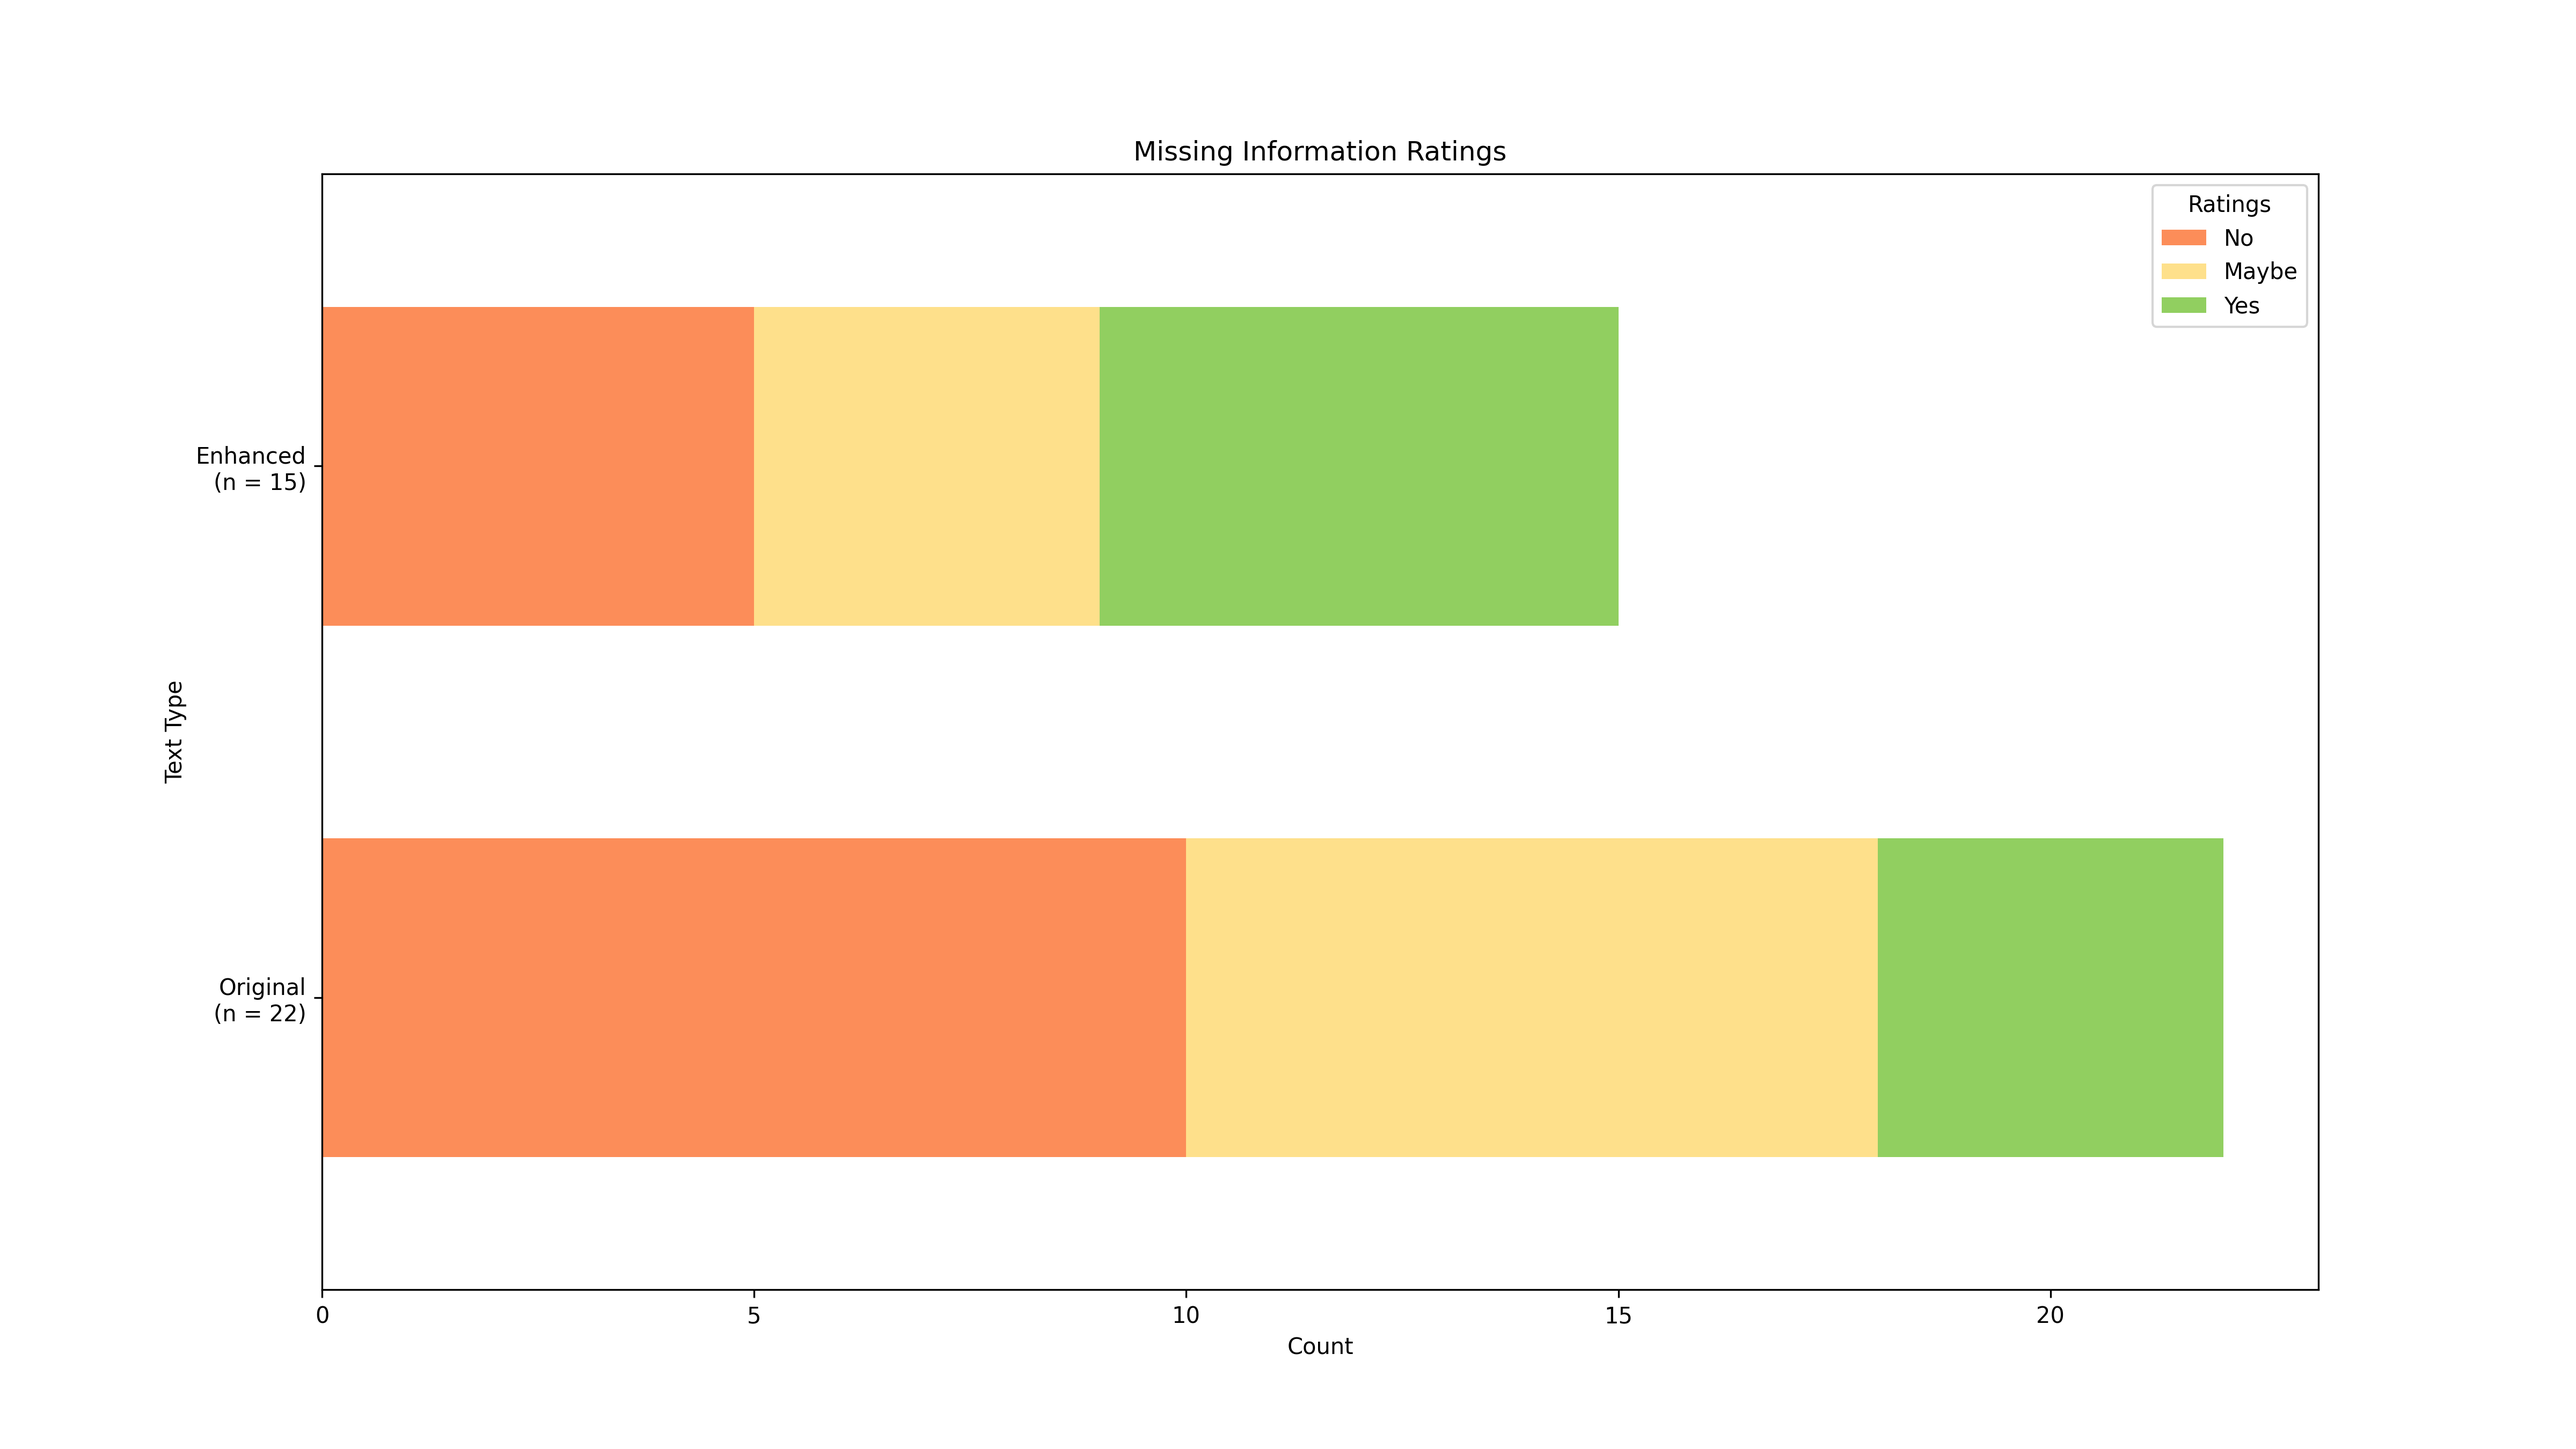
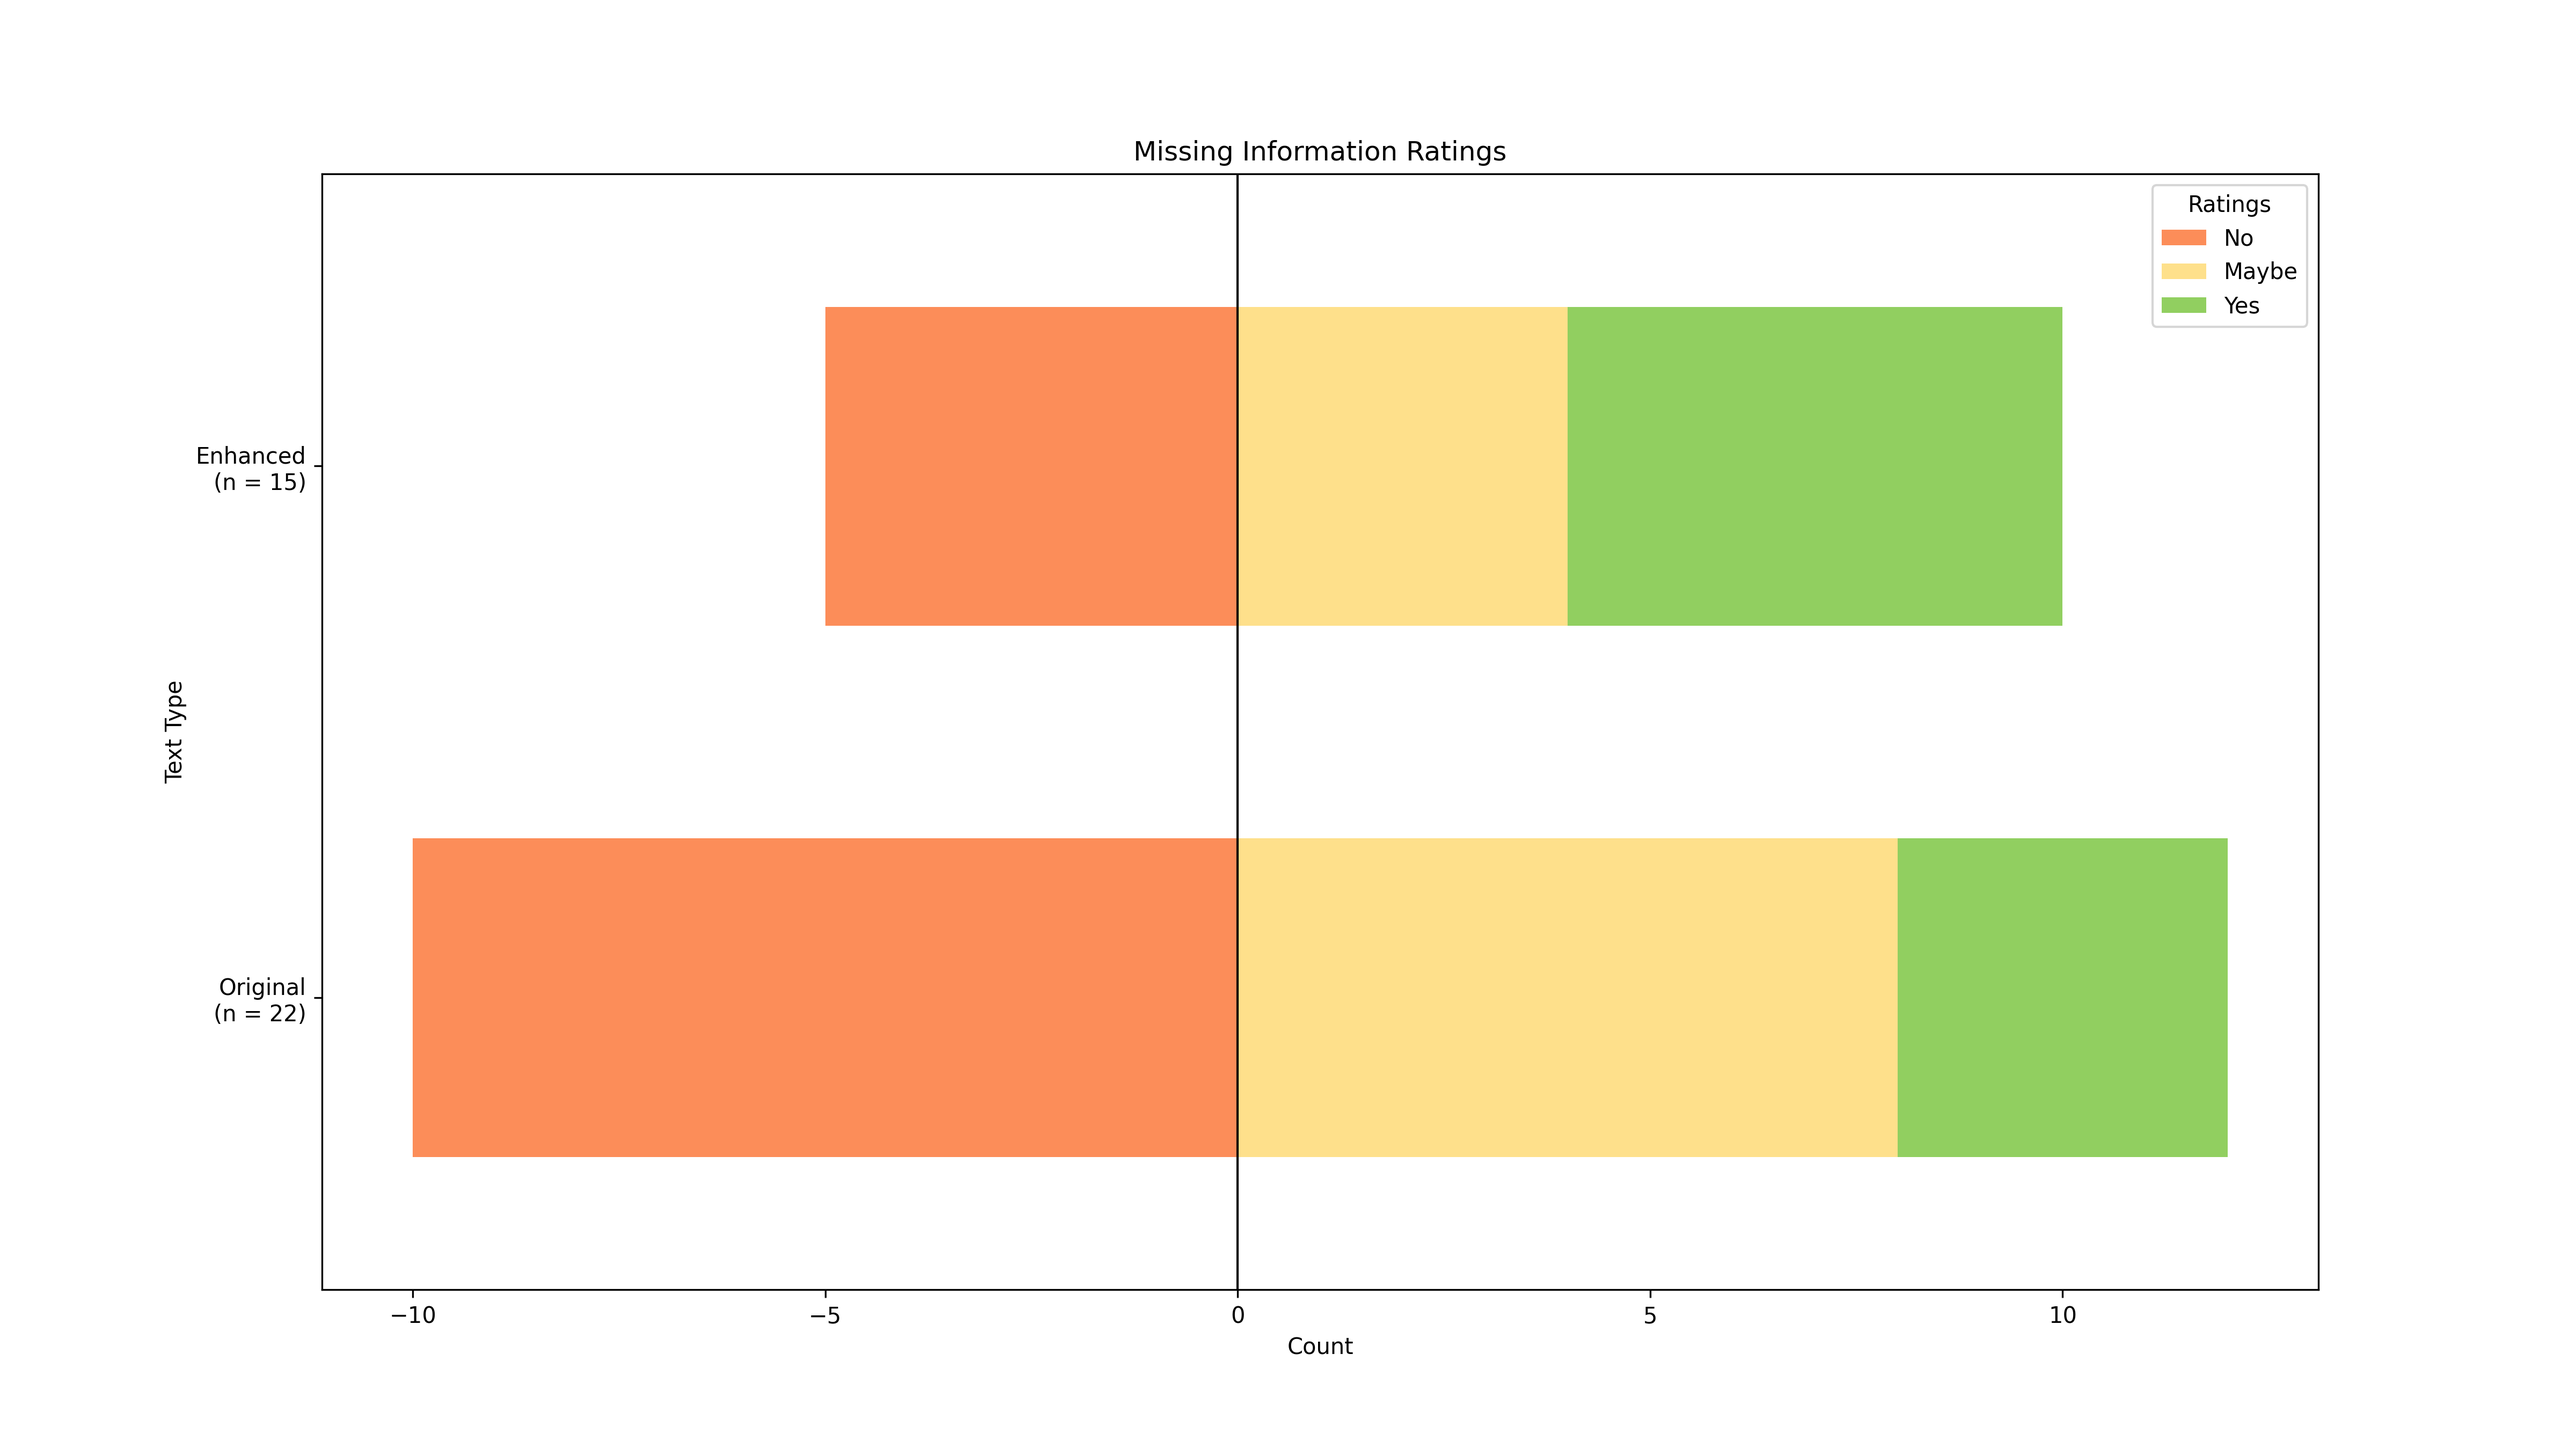
feat: center plots on the neutral response

diff --git a/graph_stats/graph_perception.py b/graph_stats/graph_perception.py
@@ -1,6 +1,7 @@
 import matplotlib.pyplot as plt
 import seaborn as sns
 import pandas as pd
+import numpy as np
 
 # File paths
 results_path = "C:\\Users\\guipa\\OneDrive\\Documentos\\GitHub\\TEL_Enhanced_Readability\\human_study\\"
@@ -69,34 +70,65 @@ def plot_stacked_bars(df, labels, title, ax, color_map):
     # Ensure ratings are in the correct order
     df = df[labels]
 
-    sample_sizes = [f"{label}\n(n = {int(df.loc[label].sum())})" for label in df.index]
+    sample_sizes = [f"{label}\n(n = {int(abs(df.loc[label]).sum())})" for label in df.index]
     df.index = sample_sizes
-
+    print(df.head())
     colors = [color_map[label] for label in color_map.keys()]
     # Plot stacked bars
     df.plot(kind="barh", stacked=True, color=colors, ax=ax, width=0.6)
+    ax.axvline(0, color="black", linewidth=1) # Add central reference line at zero
     ax.set_title(title)
     ax.set_xlabel("Count")
     ax.set_ylabel("Text Type")
     ax.legend(title="Ratings", loc="upper right")
 
-# Create the first figure (Readability & Understandability)
-fig, ax = plt.subplots(figsize=(16, 9), sharey=True)
+def plot_manual_stacked_barh(df, labels, title, ax, color_map):
+    df = df[labels]  # Ensure correct order of ratings
+    sample_sizes = [f"{label}\n(n = {int(abs(df.loc[label]).sum())})" for label in df.index]
+    df.index = sample_sizes
+    
+    y_positions = np.arange(len(df))  # Positioning for bars
+    # Add values from 1 and 2 ratings
+    left_positions = (df[1].values + df[2].values) *-1  # Initialize left start positions
+    print(df.head())
+    for label in labels:
+        values = df[label].values
+        color = color_map[label]
+        print(f"Plotting {label}: y_positions={y_positions}, values={values}, left_positions={left_positions}, color={color}")
+        ax.barh(y_positions, values, left=left_positions, color=color, label=label, height=0.6)
+        left_positions += values  # Update left positions for stacking
 
-df = pd.DataFrame({"Original Readability": readable_original, "Enhanced Readability": readable_enhanced, "Original Understandability": understandable_original, "Enhanced Understandability": understandable_enhanced}).fillna(0)
+    
+    ax.axvline(0, color='black', linewidth=1)  # Central reference line
+    ax.set_yticks(y_positions)
+    ax.set_yticklabels(df.index)
+    ax.set_title(title)
+    ax.set_xlabel("Count")
+    ax.set_ylabel("Text Type")
+    ax.legend(title="Ratings", loc="upper right")
+    print(ax)
+
+# Create the first figure (Readability & Understandability)
+fig, ax = plt.subplots(figsize=(16, 9))
+df = pd.DataFrame({"Original Readability": readable_original,
+                   "Enhanced Readability": readable_enhanced,
+                   "Original Understandability": understandable_original,
+                   "Enhanced Understandability": understandable_enhanced
+                   }).fillna(0)
 df = df.T  # Transpose to have "Original" and "Enhanced" on y-axis
 
-df = df[[1, 2, 3, 4, 5]]  # Ensure ratings are in the correct order
+#df[[1, 2]] *= -1 # Invert the negative ratings for better visualization
 
-plot_stacked_bars(df, labels=[1, 2, 3, 4, 5], 
-                  title="Ratings", ax=ax, color_map=custom_colors)
-
+#plot_stacked_bars(df, labels=[1, 2, 3, 4, 5], title="Ratings", ax=ax, color_map=custom_colors)
+plot_manual_stacked_barh(df, labels=[1, 2, 3, 4, 5], title="Ratings", ax=ax, color_map=custom_colors)
+plt.tight_layout()
 plt.savefig(graph_path + "readability_understandability.png", dpi=300)
 # plt.show()
 
 # Second figure for Missing Information
 df = pd.DataFrame({"Original": missing_info_original, "Enhanced": missing_info_enhanced}).fillna(0)
 df = df.T  # Transpose to have "Original" and "Enhanced" on y-axis
+df["No"] *= -1 # Invert the "No" ratings for better visualization
 fig, ax = plt.subplots(figsize=(16, 9))  
 plot_stacked_bars(df, labels=["No", "Maybe", "Yes"], 
                   title="Missing Information Ratings", ax=ax, color_map=pastel_missing_info_colors)
